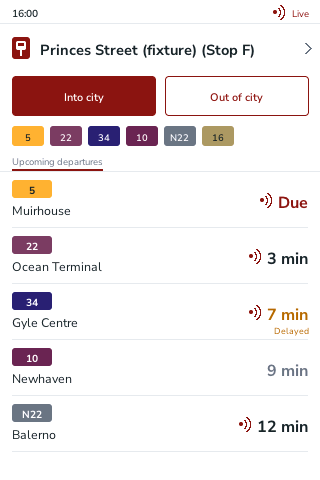
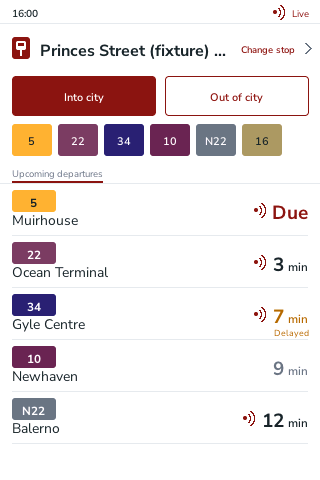
README: round 2 features, config, data policies, snapshot screens; new screenshots
- Features: bus tracking and OSM map, hidden routes, Into/Out keeps the stop
- Config: BUS_HOME_LAT/LON preferred, BUS_ADDRESS fallback, tile and geocoder URLs, user agent
- Data and usage policies: Novus subscription, OSM tile and Nominatim rules
- Snapshot screens and flags (--hidden, --tiles, --live-detail for dev); five test suites
- Project structure and credits (stb_image, OpenStreetMap)
- docs/images: board, board with two routes hidden, stop list, bus detail with map
  (hand-made city-centre demo trip, Pi tile cache), error, boot

diff --git a/README.md b/README.md
@@ -1,25 +1,30 @@
 # Lothian Bus Display
 
-A Raspberry Pi bus board: live Lothian departures for the stops nearest your home, on a small touchscreen. Written in C++.
+A Raspberry Pi bus board: live Lothian departures for the stops near home, on a small touchscreen. Written in C++.
 
 <p align="center">
-  <img src="docs/images/board.png" alt="Departures board: Princes Street stop, into city, five upcoming buses" width="240">
+  <img src="docs/images/board.png" alt="Departures board for Princes Street, into city" width="240">
+  <img src="docs/images/board-hidden.png" alt="Departures board with two routes hidden" width="240">
   <img src="docs/images/stop-list.png" alt="Stop list for the into-city direction" width="240">
+  <img src="docs/images/bus-detail.png" alt="Bus detail: live position on an OpenStreetMap map, 4 minutes late" width="240">
+</p>
+<p align="center">
   <img src="docs/images/error.png" alt="No Wi-Fi error screen with retry and choose-stop buttons" width="240">
   <img src="docs/images/boot.png" alt="Boot screen" width="240">
 </p>
 
-The screenshots are rendered from hand-made fixtures by the program's snapshot mode, not photographed. The look follows the Lothian Buses app. No Lothian logos or branding are used.
+The screenshots come from the program's snapshot mode, using hand-made or city-centre fixtures, not photographs of a real home. The look follows the Lothian Buses app. No Lothian logos or branding are used.
 
 ## Features
 
-- Finds the stops nearest a home address (geocoded with OpenStreetMap Nominatim, cached on disk) and groups them into into-city and out-of-city.
-- Shows the next departures for the nearest stop, with live times, delays and cancellations from the Lothian Novus Open API v1.2.
-- Into and out of city buttons switch direction at once. Direction comes from the operator's timetables, not from a guess about the map.
-- Stop list for the current direction. Choose any stop by touch.
-- Errors are shown as their own screens (no Wi-Fi, bad key, rate limited, no stops), each with Retry and Choose stop.
-- Refresh with back-off: a failed request is retried after 30 s, doubling up to 5 min; a rate limit waits longer. The last good departures stay on screen and are marked with their age.
-- Sleeps after 5 minutes with no touch on the board, and wakes on a tap.
+- **Board:** the next departures for the nearest stop, with live times, delays and cancellations from the Lothian Novus Open API v1.2.
+- **Into and Out of city:** the two buttons switch direction and keep the stop on screen, showing the stop across the road in the other direction. Direction comes from the operator's timetables.
+- **Stop list:** every stop for the current direction, with distance. Tap one to show its board.
+- **Hide routes:** tap a route chip to hide that route from the board. Hidden routes are saved on the Pi.
+- **Bus detail:** tap a departure to see where its bus is on a map, how far away it is, how late it is, and its stops along the route, with the ones already passed marked. The map uses OpenStreetMap tiles. The bus position refreshes every 20 seconds while this screen is open, and nothing is polled from the board.
+- **Errors:** no Wi-Fi, a rejected key, rate limiting and no stops each have their own screen, with Retry and Choose stop.
+- **Refresh with back-off:** a failed request is retried after 30 s, doubling up to 5 min. A rate limit waits longer. The last good departures stay on screen, marked with their age.
+- **Sleep:** the screen turns off after 5 minutes with no touch on the board. A tap wakes it.
 
 ## Hardware
 
@@ -29,20 +34,22 @@ Raspberry Pi 5 (16 GB) with a 3.5" 320 x 480 IPS touchscreen (ST7796S display, F
 
 ```mermaid
 flowchart LR
-    A[Home address] --> B[Geocode<br/>Nominatim, cached]
-    B --> C[Nearest stops]
-    C --> D[Novus API<br/>StopEvents]
-    C --> T[Novus API<br/>timetables, cached per day]
-    T --> X[Direction:<br/>into or out of city]
-    D --> E[Departures]
+    A[Home position<br/>BUS_HOME_LAT/LON] --> C[Nearest stops<br/>GetActiveStops, cached per day]
+    G[Home address<br/>fallback only] -.->|geocoded once| A
+    C --> D[StopEvents<br/>departures]
+    C --> T[GetServiceTimetable<br/>cached per day]
+    T --> X[Into or out of city]
+    D --> E[Board]
     X --> E
+    E --> V[Bus detail:<br/>VehicleStatus every 20 s]
+    V --> M[OSM map tiles<br/>cached 7 days+]
     E --> F[Render into<br/>RGB565 buffer]
-    F --> G[SPI to ST7796 LCD]
+    F --> L[SPI to ST7796 LCD]
     H[FT6336U touch<br/>over I2C] --> I[Main loop<br/>touch, refresh, sleep]
     I --> E
 ```
 
-`src/busTrack.cpp` runs the main loop. `refresh.cpp` decides when to fetch and how long to back off. `screens.cpp` holds screen state and touch areas, with no drawing, so it can be tested on its own. `screens_draw.cpp` and `renderDisplay.cpp` draw into a buffer, and the graphics layer in `gfx/` provides anti-aliased text and widgets with baked fonts. The buffer is sent to the LCD over SPI. The HTTP calls (`apiHttp.h`) send the subscription key in the `Ocp-Apim-Subscription-Key` header.
+`src/busTrack.cpp` runs the main loop. `refresh.cpp` decides when to fetch and how long to back off. `screens.cpp` holds screen state and touch areas, with no drawing, so it can be tested alone. `screens_draw.cpp`, `bus_detail.cpp` and `renderDisplay.cpp` draw into a buffer. `gfx/` provides anti-aliased text, widgets with baked fonts, and the map panel. The buffer goes to the LCD over SPI. Every HTTP call sends the subscription key in the `Ocp-Apim-Subscription-Key` header and the app's own User-Agent.
 
 ## Build on a Raspberry Pi
 
@@ -57,6 +64,7 @@ flowchart LR
    git clone https://github.com/Hamish-MarshallDawson/Lothian-Api-Bus-Display.git
    cd Lothian-Api-Bus-Display/src
    make
+   make test
    ```
    Without wiringPi, `make` still builds `busTrack` for snapshot and fetch. It leaves out the display loop.
 4. Get an API key from the [Trapeze developer portal](https://devportal-public.trapezegroupazure.co.uk/): sign up, subscribe to the product **NRT Open API Edinburgh CEC Bustracker Open Interface**, then copy the Primary key from your Profile page.
@@ -68,11 +76,21 @@ Settings come from environment variables. Nothing personal is compiled in. Copy 
 | Variable | Required | Meaning |
 |----------|----------|---------|
 | `BUSTRACKER_KEY` | yes | Novus API subscription key. Never printed or logged. |
-| `BUS_ADDRESS` | yes | Home address, used to find the nearest stops. |
+| `BUS_HOME_LAT`, `BUS_HOME_LON` | yes, or the address below | Home position in decimal degrees. Preferred. With both set, no geocoder is contacted at all. |
+| `BUS_ADDRESS` | fallback | Home address, used only when the position is not set. Geocoded once and cached. It is personal data. |
+| `BUS_GEOCODER_URL` | no | Geocoder used with `BUS_ADDRESS`. Default: Nominatim. |
+| `BUS_TILE_URL` | no | Map tile URL with `{z}` `{x}` `{y}`. Default: the OpenStreetMap tile server. |
 | `BUS_NUM_STOPS` | no | Stops offered in each direction (default 8). |
-| `BUS_USER_AGENT` | no | HTTP User-Agent. Don't put personal details in it. |
+| `BUS_USER_AGENT` | no | HTTP User-Agent. Default: `LothianBusDisplay/1.0 (+https://github.com/Hamish-MarshallDawson/Lothian-Api-Bus-Display)`. |
 
 The look-ahead (60 minutes) and the maximum number of departures per stop (12) are fixed in `src/settings.h`.
+
+## Data and usage policies
+
+- **Lothian data** comes through the Trapeze Novus Open API. Using it needs your own subscription key, from the developer portal above. The key stays in the settings file.
+- **Map tiles** come from OpenStreetMap under its [tile usage policy](https://operations.osmfoundation.org/policies/tiles/). Tiles are cached on disk and revalidated with the server's headers (at least 7 days when there are none). The app sends its own User-Agent, and the map credits OpenStreetMap contributors.
+- **Geocoding** is used only when no home position is set. It goes to Nominatim under its [usage policy](https://operations.osmfoundation.org/policies/nominatim/): one request a second at most, the result cached forever, and nothing sent for an hour after a failure.
+- Caches live in `~/.cache/bustracker/`: geocoding, stop lists, timetables and directions per day, and map tiles.
 
 ## Running it
 
@@ -80,62 +98,69 @@ The look-ahead (60 minutes) and the maximum number of departures per stop (12) a
 
 ```sh
 ./busTrack --snapshot out.png --fixture fixtures/stopevents-typical.json --now 2026-10-31T16:00:00 --direction into
-./busTrack --snapshot out.png --screen error-no-wifi
+./busTrack --snapshot out.png --fixture fixtures/stopevents-typical.json --now 2026-10-31T16:00:00 --hidden 22,34
+./busTrack --snapshot out.png --screen bus-detail-live --tiles ~/.cache/bustracker
 ```
 
-`--screen` takes `main`, `boot`, `loading`, `direction`, `stop-list`, `error-no-wifi`, `error-key`, `error-rate`, `error-no-stops`, `empty` or `asleep`. `--age SECS` draws the board as if its data were that old. `--fetch <atcocode>` prints one stop's board from the live API.
+- `--screen` takes `main`, `boot`, `loading`, `stop-list`, `bus-detail`, `empty`, `asleep`, `error-no-wifi`, `error-key`, `error-rate` or `error-no-stops`. `bus-detail-live`, `bus-detail-stale`, `bus-detail-stuck` and `bus-detail-notstarted` draw the bus detail from a hand-made trip.
+- `--fixture` uses a JSON file in place of the live board. `--now` sets the clock for it. `--age SECS` draws the board as if its data were that old.
+- `--hidden` takes route names separated by commas. `--direction into|out` sets the highlight.
+- `--tiles DIR` gives the map its tiles. Without it, the map draws a plain background.
+- `--row N` with `--live-detail STOP` (development only, uses the live API) draws the bus detail for a real departure at a stop.
+- `--fetch <atcocode>` prints one stop's board from the live API.
 
-**Tests** need no network and no display:
+**Tests** need no display and no network:
 
 ```sh
 make test
 ```
 
-They cover the refresh back-off, the direction logic and the parsing of live responses from the fixtures in `src/fixtures/`, plus the screen state machine and touch areas.
+Five suites: refresh back-off, direction logic, live response parsing, bus tracking, and the screen state machine with its touch areas. They run on fixtures in `src/fixtures/`. `make picker-live` and `make track-live` are development checks against the live API.
 
-**As a service:** [`deploy/bustracker.service`](deploy/bustracker.service) starts `busTrack` at boot and restarts it after a crash. [`deploy/INSTALL.md`](deploy/INSTALL.md) has the steps. The service is written and documented. I have not tested the install on the Pi.
+**As a service:** [`deploy/bustracker.service`](deploy/bustracker.service) starts `busTrack` at boot and restarts it after a crash. [`deploy/INSTALL.md`](deploy/INSTALL.md) has the steps. The unit is written and documented. I have not installed it on the Pi.
 
 ## Project structure
 
 ```
-src/                 app code: busTrack.cpp (main loop), refresh, departures,
-                     timetables, direction, screens, renderDisplay, tests/
-src/fixtures/        hand-made and city-centre JSON used by snapshot mode and tests
-gfx/                 graphics layer: canvas, text, widgets, baked Nunito fonts
-third_party/waveshare/   Waveshare LCD and touch driver, vendored, notices kept
-third_party/fonts/   Nunito Sans (OFL) and its notice
-third_party/         stb_truetype.h (public domain)
-tools/bake_font.cpp  turns the TTF files into the gfx/fonts headers
-deploy/              systemd unit and install notes
-docs/                hardware, wiring, screenshots
+src/                       app code: busTrack.cpp (main loop), refresh, departures,
+                           timetables, direction, pairing, hidden_routes, tracking,
+                           bus_detail, screens, renderDisplay, diskcache, tiles
+src/tests/                 the five test suites and two live checks
+src/fixtures/              hand-made and city-centre JSON for snapshot mode and tests
+gfx/                       graphics: canvas, text, widgets, map panel (gfx/map), baked Nunito fonts
+third_party/waveshare/     Waveshare LCD and touch driver, vendored, notices kept
+third_party/fonts/         Nunito Sans (OFL) and its notice
+third_party/               stb_truetype.h and stb_image.h (public domain)
+tools/bake_font.cpp        turns the TTF files into the gfx/fonts headers
+deploy/                    systemd unit and install notes
+docs/                      hardware, wiring, screenshots
 ```
 
 ## Known issues
 
-- The wake-on-touch and stale-time behaviour from the first version has been rewritten but is not yet checked on the real screen.
-- Fonts and screenshots were made with snapshot mode, so text rendering on the LCD itself may differ slightly.
+- Wake-on-touch and the stale-time behaviour from the first version have been rewritten, but they have not been checked on the real screen.
+- The screenshots are rendered by snapshot mode, so text on the LCD itself may differ slightly.
 
 ## What I learned
 
-- The Lothian open data API moved from `tfe-opendata.com` to the Trapeze Novus Open API. The old stop-ID lookups no longer work, so the stop search now goes through geocoding and the Novus stop endpoints.
-- Keeping the key in an environment variable keeps the repo publishable. Nothing personal is compiled in.
+- The Lothian open data API moved from `tfe-opendata.com` to the Trapeze Novus Open API. The old stop-ID lookups no longer work, so stops are found from the stop list by distance.
+- Keeping the key and the home position in an environment file keeps the repo publishable. Nothing personal is compiled in.
 - Snapshot mode and fixtures make the screens checkable without the hardware, and the tests run offline.
 
 ## Future ideas
 
-- Show how far away the next bus is, from the vehicle position the API returns.
-- An animation of the bus getting closer to the stop.
 - Rest hours (for example midnight to 6 am), in addition to the idle timeout.
 - Weather hints, such as "bring a coat".
+- A short animation of the bus getting closer to the stop.
 
 ## Credits
 
 - Display and touch driver from Waveshare (`third_party/waveshare`). Their notices are kept in the files.
-- [stb_truetype](https://github.com/nothings/stb) by Sean Barrett, public domain. Used by `tools/bake_font.cpp`.
+- [stb_truetype](https://github.com/nothings/stb) and [stb_image](https://github.com/nothings/stb) by Sean Barrett, public domain. Used for the font baking tool and for reading map tiles.
 - Nunito Sans by The Nunito Sans Project Authors, under the [SIL Open Font License 1.1](third_party/fonts/OFL-NunitoSans.txt).
-- Geocoding by [OpenStreetMap Nominatim](https://nominatim.openstreetmap.org/). Map data © OpenStreetMap contributors.
-- Departure, timetable and stop data from Lothian Buses through the Trapeze Novus Open API.
+- Map tiles and map data © [OpenStreetMap](https://www.openstreetmap.org/copyright) contributors. Geocoding by [Nominatim](https://nominatim.openstreetmap.org/).
+- Departure, timetable, stop and vehicle data from Lothian Buses through the Trapeze Novus Open API.
 
 ## Licence
 
-The project code is released under the [MIT License](LICENSE). Vendored third-party code in `third_party/` (the Waveshare driver, Nunito Sans, stb_truetype) keeps its own copyright and licence notices, which stay in those files.
+The project code is released under the [MIT License](LICENSE). Vendored third-party code in `third_party/` (the Waveshare driver, Nunito Sans, stb) keeps its own copyright and licence notices, which stay in those files.
